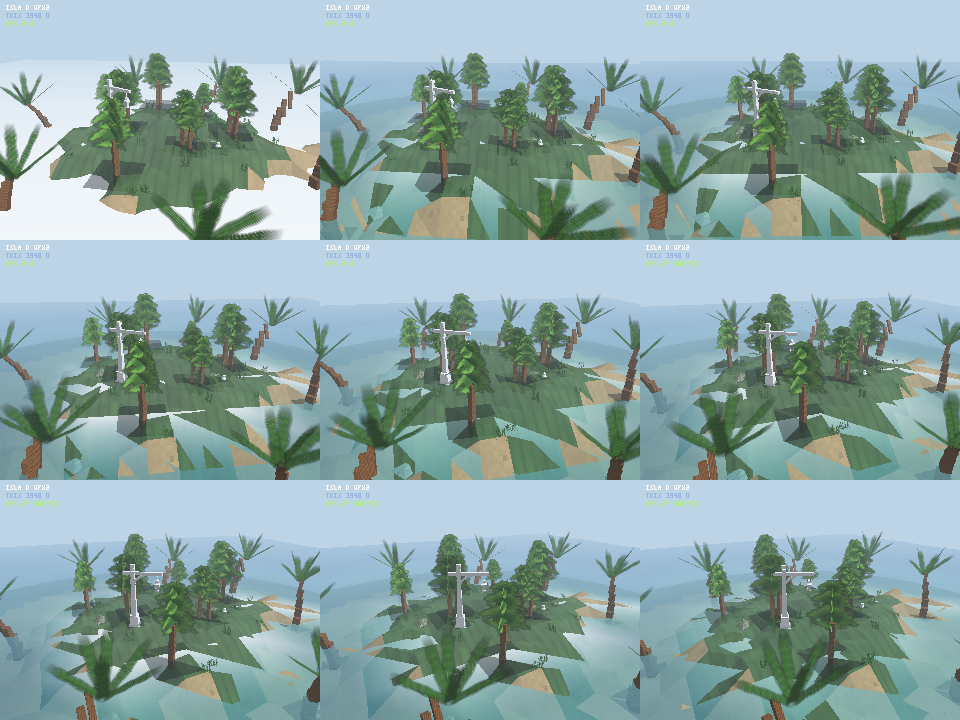
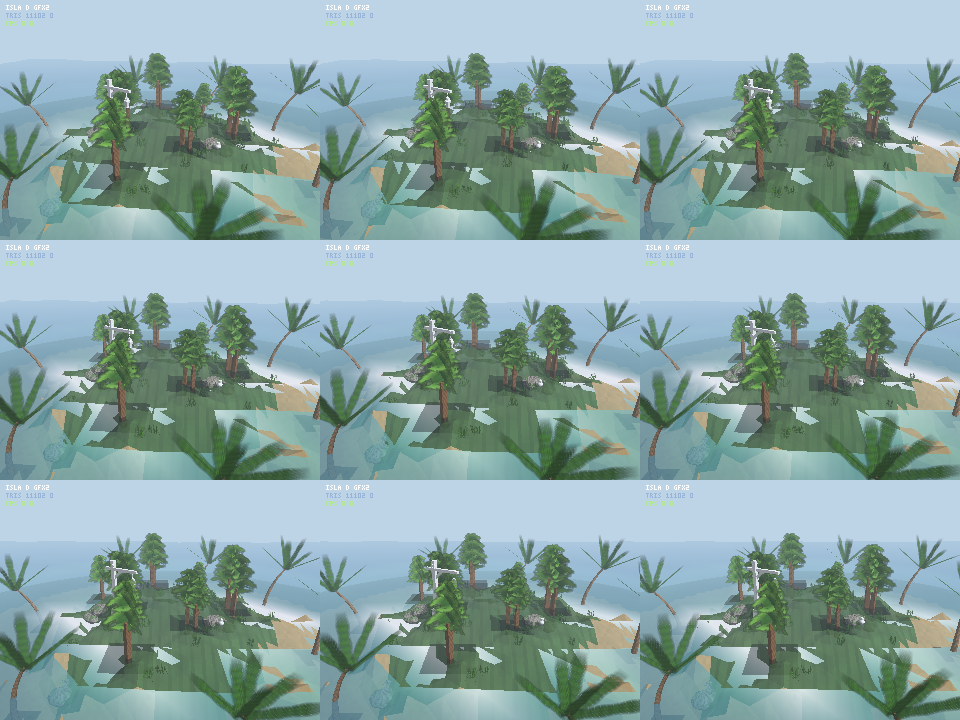
Этап 9.1 «Тесселяция»: ландшафт 61×61 (шаг 1.07), стволы пальм — гладкие цилиндры, камни — валуны; растеризатор: скретч-буферы + кэш проекций вершин; ~11.2k трис @ 20-21 fps

diff --git a/src/render3d.rs b/src/render3d.rs
@@ -213,8 +213,8 @@ fn dot3(a: &[f32; 3], b: &[f32; 3]) -> f32 {
 /// Атрибуты (u/w, 1/w, мир/w, a/w, rgb/w) линейны вдоль ребра → интерполируются
 /// тем же t. Мир/w нужен per-pixel half-vector блику, a/w и rgb/w — прозрачности
 /// и цветовым градиентам (вода, небо).
-fn clip_near6(poly: &[[f32; 14]]) -> Vec<[f32; 14]> {
-    let mut out = Vec::with_capacity(poly.len() + 1);
+fn clip_near6(poly: &[[f32; 14]], out: &mut Vec<[f32; 14]>) {
+    out.clear();
     let n = poly.len();
     for i in 0..n {
         let a = poly[i];
@@ -235,7 +235,6 @@ fn clip_near6(poly: &[[f32; 14]]) -> Vec<[f32; 14]> {
             out.push(v);
         }
     }
-    out
 }
 
 #[derive(Clone, Copy)]
@@ -908,6 +907,14 @@ fn raster_tris(
     culled: &mut u64,
 ) -> Result<(), String> {
     let n = world.len() / 3;
+    // скретч-буферы переиспользуются всеми треугольниками (без аллокаций
+    // на треугольник в горячем цикле — цена тесселяции ревизии 4)
+    let mut poly_buf: Vec<[f32; 14]> = Vec::with_capacity(8);
+    let mut clip_buf: Vec<[f32; 14]> = Vec::with_capacity(8);
+    let mut pts_buf: Vec<Vtx> = Vec::with_capacity(8);
+    // кэш проекций: вершина регулярной сетки переиспользуется до 4 квад,
+    // project6 с перспективным делением — самая дорогая часть цикла
+    let mut vcache: Vec<Option<Vtx>> = vec![None; n];
     for f in 0..idx.len() / 3 {
         let mut tri = [0usize; 3];
         for k in 0..3 {
@@ -929,7 +936,7 @@ fn raster_tris(
             Some(t) => [t[tri[0] * 3], t[tri[0] * 3 + 1], t[tri[0] * 3 + 2]],
             None => [solid.0, solid.1, solid.2],
         };
-        let mut poly: Vec<[f32; 14]> = Vec::with_capacity(3);
+        poly_buf.clear();
         for &t in &tri {
             let cw = clip[t * 4 + 3];
             let iw = if cw > 1e-6 { 1.0 / cw } else { 0.0 };
@@ -945,7 +952,7 @@ fn raster_tris(
             } else {
                 (blend_base, base_rgb[0], base_rgb[1], base_rgb[2])
             };
-            poly.push([
+            poly_buf.push([
                 clip[t * 4],
                 clip[t * 4 + 1],
                 clip[t * 4 + 2],
@@ -963,25 +970,43 @@ fn raster_tris(
             ]);
         }
 
-        let poly = if poly.iter().any(|v| v[3] < 1e-6) {
-            let clipped = clip_near6(&poly);
-            if clipped.len() < 3 {
+        let poly: &[[f32; 14]] = if poly_buf.iter().any(|v| v[3] < 1e-6) {
+            clip_near6(&poly_buf, &mut clip_buf);
+            if clip_buf.len() < 3 {
                 *culled += 1;
                 continue;
             }
-            clipped
+            &clip_buf
         } else {
-            poly
+            &poly_buf
         };
 
-        let mut pts = Vec::with_capacity(poly.len());
+        let pts = &mut pts_buf;
+        pts.clear();
         let mut ok = true;
-        for v in &poly {
-            match project6(v, w, h) {
-                Some(p) => pts.push(p),
-                None => {
-                    ok = false;
-                    break;
+        if poly.len() == 3 {
+            // без клипа: проекции берём из кэша вершины (порядок tri[])
+            for (k, &vi) in tri.iter().enumerate() {
+                let c = &mut vcache[vi];
+                if c.is_none() {
+                    *c = project6(&poly[k], w, h);
+                }
+                match c {
+                    Some(p) => pts.push(*p),
+                    None => {
+                        ok = false;
+                        break;
+                    }
+                }
+            }
+        } else {
+            for v in poly {
+                match project6(v, w, h) {
+                    Some(p) => pts.push(p),
+                    None => {
+                        ok = false;
+                        break;
+                    }
                 }
             }
         }

diff --git a/README.md b/README.md
@@ -420,27 +420,22 @@ demo/          orbital.gif, survival.gif, filmstrip*.png, editor-*.png, *.log
 6. JIT для eval (ТЗ §10.1) — числовые ядра сделаны в этапе 3 (49×);
    расширение покрытия — следующий шаг.
 
-## Демо: Остров (этап 9, графическая ревизия 3)
+## Демо: Остров (этап 9, графическая ревизия 4 — тесселяция)
 
-Сцена assets/lisp/island.lisp. Новое против ревизии 2:
-- **Alpha-blending** (этап 9 движка): прозрачная очередь с сортировкой
-  far→near по треугольникам, src-alpha блендинг, z-тест без z-записи,
-  двусторонние грани — нативы `gpu3d-alpha-blend`, `gpu3d-flush-alpha`;
-- **`gpu3d-mesh-vc`** — per-vertex RGBA: вода с глубинным градиентом
-  (бирюза→тёмная), ФРЕНЕЛЕМ (отражение неба под углом) и ПЕНОЙ у берега;
-- **Текстуры из PNG** (scripts/gen_textures.py, процедурные, тайлящиеся,
-  премультиплицированные спрайты): трава/песок/камень/кора 256², листья,
-  пальмовые ветви, облака, glow, пучки травы;
-- **Пальмы** (7 шт): изогнутый ствол из 5 сегментов + 7 поникающих
-  листьев с покачиванием на ветру;
-- скалы по КРУТЫМ СКЛОНАМ (порог градиента высоты), мягкие тени-блобы под
-  деревьями, пучки травы-билборды, облака, солнечное гало, небо с тёплым
-  горизонтом, согласованный туман (кромка водной плоскости растворяется);
-- glTF-модели WaterBottle и Lantern (CC0-1.0, KhronosGroup/glTF-Sample-Assets).
-
-Headless-замер: 27–28 fps на 320x240 (--fast; ревизия 2 давала 40.9 на
-простой сцене — цена блендинга ~6 fps, пер-вершинного цвета воды ~12 fps,
-компенсировано кэшами инстансов и шагом обновления воды 1/8 кадра).
-Артефакты: demo/island.gif, demo/island_filmstrip.png. Происхождение
-ассетов и лицензии — docs/credits.md, ограничения — LIMITATIONS.md.
+Сцена assets/lisp/island.lisp. Новое против ревизии 3:
+- **Ландшафт 61×61 вершин** (шаг 1.07 против 1.78) — гладкие склоны
+  вместо граней; вода 25×25 (шаг 4.7);
+- **стволы пальм — гладкие цилиндры** (8 сторон × 9 колец, изгиб по
+  lean-кривой, сужение 0.21→0.10, все 7 пальм в одном статичном меше)
+  вместо стеков кубов;
+- **камни — шумовые валуны** (сфера 7×10 с радиусом по hash) вместо
+  октаэдров;
+- движок: скретч-буферы и **кэш спроецированных вершин** в растеризаторе
+  (без аллокаций на треугольник, project6 — 1 раз на вершину сетки
+  вместо 4);
+- баланс: 20–21 fps @ 320x240 headless (--fast) при ~11.2k треугольников
+  (HUD-счётчик, без glTF; ревизия 3: 27–28 fps @ 3.4k). Цена тесселяции —
+  ~2.3 мкс/треугольник
+  (bbox-скан с полным шейдингом на пиксель); инкрементальный сканлайн —
+  следующий шаг движка (см. LIMITATIONS.md).
 

diff --git a/CHANGELOG.md b/CHANGELOG.md
@@ -4,6 +4,20 @@
 
 ## [Unreleased]
 
+### Added (этап 9.1 «Тесселяция»)
+- Ландшафт 61×61 вершин (шаг 1.07), вода 25×25; стволы пальм — гладкие
+  цилиндры (8×9 колец, изгиб, сужение) одним статичным мешем; камни —
+  шумовые валуны (сфера 7×10) вместо октаэдров.
+- Растеризатор: скретч-буферы полигон/клип/проекция (ноль аллокаций на
+  треугольник) и кэш спроецированных вершин (project6 — 1 раз на вершину
+  сетки вместо 4 переиспользований квадами).
+
+### Changed (этап 9.1)
+- Баланс качества/скорости: 20–21 fps @ 320x240 при ~11.2k треугольников (HUD-счётчик, без glTF)
+  против 27–28 fps @ 3.4k у ревизии 3 (~2.3 мкс/треугольник; узкое место
+  — bbox-скан с полным шейдингом на пиксель, инкрементальный сканлайн —
+  следующий шаг).
+
 ### Added (этап 9 «Графика-2»)
 - Alpha-blending в 3D-растеризаторе: прозрачная очередь (`R3::transq`) с
   сортировкой far→near по видовой глубине, src-alpha блендинг, z-тест без

diff --git a/README.en.md b/README.en.md
@@ -423,7 +423,24 @@ demo/          orbital.gif, survival.gif, filmstrip*.png, editor-*.png, *.log
 6. JIT for eval (spec §10.1) — numeric kernels done in stage 3 (49×);
    extending coverage is the next step.
 
-## Demo: Island (stage 8, branch stage8/island)
+## Demo: Island (stage 9, graphics revision 4 — tessellation)
+
+Scene: assets/lisp/island.lisp. New since revision 3:
+- **Terrain 61x61 vertices** (step 1.07 vs 1.78) — smooth slopes instead
+  of facets; water 25x25 (step 4.7);
+- **palm trunks are smooth cylinders** (8 sides x 9 rings, bent along the
+  lean curve, taper 0.21→0.10, all 7 palms merged into one static mesh)
+  instead of cube stacks;
+- **rocks are noise boulders** (7x10 sphere with hash-jittered radius)
+  instead of octahedra;
+- engine: scratch buffers and a **projected-vertex cache** in the
+  rasterizer (no per-triangle allocations, project6 runs once per grid
+  vertex instead of 4);
+- tradeoff: 20–21 fps @ 320x240 headless (--fast) at ~11.2k triangles
+  (HUD counter, no glTF; revision 3: 27–28 fps @ 3.4k). Tessellation
+  costs ~2.3 µs/triangle
+  (bbox scan with full per-pixel shading); an incremental scanline
+  rasterizer is the next engine step (see LIMITATIONS.md).
 
 ## Demo: Island (stage 9, graphics revision 3)
 
